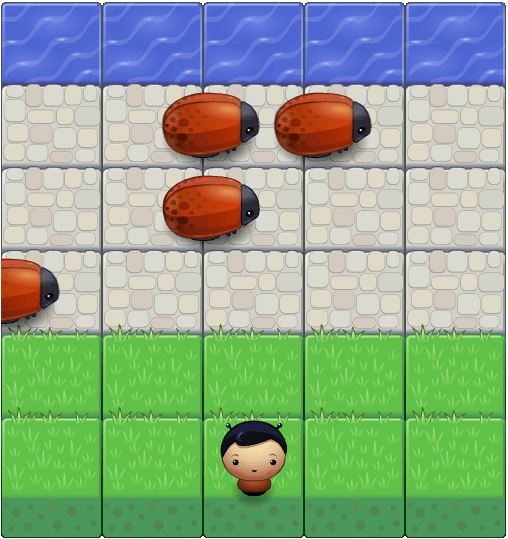
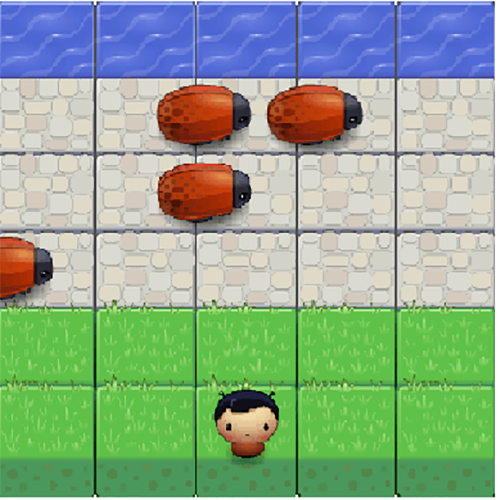
Include Spotify Project Descriptions

diff --git a/index.html b/index.html
@@ -1,1 +1,1 @@
-<!DOCTYPE html><html lang=en><head><meta charset=utf-8><meta http-equiv=X-UA-Compatible content="IE=edge"><meta http-equiv=Cache-control content=public><meta name=viewport content="width=device-width,initial-scale=1"><title>Vincent Tsang</title><link href="http://fonts.googleapis.com/css?family=Roboto:400,400italic,500,300,700,100" rel=stylesheet type=text/css><link href="http://weloveiconfonts.com/api/?family=brandico" rel=stylesheet type=text/css><link rel=stylesheet href=css/bootstrap.min.css><link rel=stylesheet href=css/styles.min.css><style>body{font-family:Roboto,sans-serif;color:#000;position:relative}[class*=brandico-]:before{font-family:brandico,sans-serif}</style><script type=text/javascript>$(document).ready(function(){$("body").scrollspy({target:"#navbar-example"}),$(".resume-header").toUpperCase});</script><body data-spy=scroll data-target=#navbar-example><nav class="navbar navbar-default navbar-fixed-top"><div class=container><div class=navbar-header><button class=navbar-toggle data-toggle=collapse data-target=.navHeaderCollapse><span class=icon-bar></span> <span class=icon-bar></span> <span class=icon-bar></span></button> <a class=navbar-brand href=#><img style=max-height:45px;max-width:50px;margin-top:-25% src=images/logo.png></a></div><div id=navbar-example class="collapse navbar-collapse navHeaderCollapse"><ul class="nav navbar-nav navbar-right"><li><a href=#about class=color-me>About Me</a></li><li><a href=#resume>Resume</a></li><li><a href=#projects>Projects</a></li><li><a href=#contact>Contact Me</a></li></ul></div></div></nav><div class=jumbotron><div class=container><div class="row centered"><div class=col-md-12><div class="text-center jumbotron-text"><h1>Vincent Tsang</h1><hr width=60%></div></div></div><div id=jumbo class="row flex fade-text"><div class=col-md-4><h2 class="fading-text fade-learn text-animated-one">Learn</h2></div><div class=col-md-4><h2 class="fading-text fade-explore text-animated-three">Explore</h2></div><div class=col-md-4><h2 class="fading-text fade-discover text-animated-two">Discover</h2></div></div></div><div class="blue-btn text-center"><a class="btn btn-default glyphicon glyphicon-menu-down" href=#about role=button></a></div></div><section id=about><div class=container><div class="row section-indent"><div class="col-md-12 text-center"><h1 class=section-header>About <span class=text-muted>Me</span></h1></div></div><div id=about-info class="row section-md-indent"><div class="col-md-6 text-center"><div><img src=images/profile.png class=img-circle alt="Profile Image" width=300 height=300></div></div><div class="col-md-5 text-md intro"><p>Hi I'm Vincent, a sophomore at <span class=text-muted>Tufts University</span>. I'm currently majoring in <span class=text-muted>Computer Science</span>, and I have a strong ambition to make an impact on the web and my communities. I discovered my passion for programming in high school and since then, I've taught myself new languages and frameworks using online resources such as Udacity, Udemy, YouTube, and online blogs. I'm currently learning <span class=text-muted>Web Development</span> and <span class=text-muted>Android App Development</span>, and I hope to bring my ideas to life in the near future. When I'm not busy, I enjoy playing around, jumping into outdoor adventures and experimenting with photography.</p></div></div><div id=logo-list class="row flex"><div class=col-md-1><a href=https://www.linkedin.com/pub/vincent-tsang/9a/95b/aa3><h1 class=brandico-linkedin-rect></h1></a></div><div class=col-md-1><a href=https://github.com/vtsang01><h1 class=brandico-github></h1></a></div><div class=col-md-1><a href="https://instagram.com/vtsang01/"><h1 class=brandico-instagram-filled></h1></a></div></div></div></section><div class=section-indent></div><section id=resume class=background><div class=container><div class="row section-indent"><div class="col-md-12 text-center"><h1 class="text-thin text-super">Resume</h1></div></div><div class="row flex section-md-indent"><div class=col-md-1></div><div class="col-md-2 text-left"><p class="resume-header text-bold">Education</p></div><div class="col-md-5 text-left resume-body"><p class=color-me><b>B.S. Computer Science</b></p><p><i>Tufts University</i></p></div><div class="col-md-4 resume-body text-left"><p>2014 - Present</p><p><i>Medford, MA</i></p></div></div><div class="row flex section-md-indent"><div class=col-md-1></div><div class="col-md-2 text-left"><p class="resume-header text-bold">Courses</p></div><div class="col-md-5 text-left resume-body"><p class=color-me><b>Tufts University</b></p><p>Comp 11: Intro to Computer Science</p><p>Comp 15: Data Structures</p></div></div><div class="row flex section-md-indent"><div class=col-md-1></div><div class="col-md-2 text-left"><p class="resume-header text-bold">Online Courses</p></div><div class="col-md-5 text-left resume-body"><p class=color-me><b>Udacity: Front-End Web Developer</b></p><p>Intro to HTML and CSS</p><p>Responsive Web Fundamentals</p><p>Javascript Basics</p><p>Intro to JQuery</p><p>Responsive Web Design Fundamentals</p></div></div><div class="row section-sm-indent"><div class=col-md-1></div><div class="col-md-2 text-left"></div><div class="col-md-5 text-left resume-body"><p class=color-me><b>Udacity: Full-Stack Web Developer</b></p><p>Programming Foundations with Python</p><p>Intro to Relational Databases</p></div></div><div class="row section-md-indent"><div class=col-md-1></div><div class="col-md-2 text-left"><p class="resume-header text-bold">Work Experience</p></div><div class="col-md-5 text-left resume-body"><p class=color-me><b>Air Force Research Laboratory: Summer at the Edge 2014</b></p><p><i>Research Intern</i></p><p>Vincent demonstrated remote control of the NAO Humanoid Robot using a smartphone interface that controlled NAO’s arm and head joints, leg movements, and viewed live video stream from NAO’s cameras. He also developed natural human interface that controlled NAO's upper body motions with human gestures using the XBox Kinect Sensor.</p></div><div class="col-md-4 resume-body text-left"><p>June 2014 - August 2014</p></div></div><div class="row section-md-indent"><div class=col-md-1></div><div class="col-md-2 text-left"></div><div class="col-md-5 text-left resume-body"><p class=color-me><b>Air Force Research Laboratory: Summer at the Edge 2013</b></p><p><i>Research Intern</i></p><p>As a research intern leading his own project, Vincent created a tri-wheeled robot powered by a Raspberry Pi. He designed a web application that controlled the robot's motors, USB microphone, and camera, which streamed live video to another computer on the same network.</p></div><div class="col-md-4 resume-body text-left"><p>June 2013 - August 2013</p></div></div><div class="row section-md-indent"><div class=col-md-1></div><div class="col-md-2 text-left"></div><div class="col-md-5 text-left resume-body"><p class=color-me><b>Air Force Research Laboratory: Summer at the Edge 2012</b></p><p><i>Research Intern</i></p><p>Vincent worked with medical research team SMARTcare to innovate an OpemSim medical learning environment and used the animated virtual reality tours depicting the effects of hemophilia in blood vessels and on knee wounds.</p></div><div class="col-md-4 resume-body text-left"><p>June 2012 - August 2012</p></div></div></div><div class=section-indent></div></section><section><div class=container><div class="row section-indent" id=projects><div class="col-md-12 text-center"><h1 class="text-thin text-super">Projects</h1></div></div><div class="row text-center"><div class=col-md-4><img class=img-responsive src=images/sky.png alt="Personal Portfolio" data-toggle=modal data-target=#personalPortfolio width=500 height=350><h3 class=text-uppercase>Sky Forum</h3><p>Simple Reddit-Styled Website made with Meteor</p></div><div class=col-md-4><img class=img-responsive src=images/frogger.png alt="Frogger Game" data-toggle=modal data-target=#frogger width=500 height=350><h3 class=text-uppercase>Simple Frogger</h3><p>Frogger Game created with JavaScript and HTML5 Canvas</p></div><div class=col-md-4><img class=img-responsive src=images/code.png alt="Filler Image" data-toggle=modal data-target=#proj3 width=500 height=500><h3 class=text-uppercase>TBA</h3><p>Project To Be Added...</p></div></div></div><div class=section-indent></div></section><section id=background><div class=container><div class="row section-indent" id=contact><div class="col-md-12 text-center"><h4><i>Send a Friendly</i></h4><h1 class="text-thin text-muted text-super"><b>Hello</b></h1></div></div><div class="row mt"><div class=col-lg-6><h4>Email</h4><hr><p class=text-md>Please feel free to contact me directly at: <a class=color-me href=mailto:Vincent.Tsang@tufts.edu>Vincent.Tsang@tufts.edu</a></p></div><div class="col-lg-5 col-lg-offset-1"><h4>The Web</h4><hr><p class=text-md><span class=brandico-linkedin-rect></span> LinkedIn: <a href=https://www.linkedin.com/pub/vincent-tsang/9a/95b/aa3>Vincent Tsang</a><br><span class=brandico-github></span> Github: <a href=https://github.com/vtsang01>vtsang01</a><br><span class=brandico-instagram-filled></span> Instagram: <a href="https://instagram.com/vtsang01/">vtsang01</a></p><br><h4>Old School</h4><hr><p class=text-md>Phone: <a href=tel:18134691499>1-626-560-2777</a><br></p></div></div></div><div class=section-indent></div></section><div class=subfooter><div class=container><div class=row><div class=col-md-12><ul class="list-inline text-center scrollspy smooth-scroll"><li><a href=#>Home</a></li><li class=footer-menu-divider>&sdot;</li><li><a href=#about>About</a></li><li class=footer-menu-divider>&sdot;</li><li><a href=#resume>Resume</a></li><li class=footer-menu-divider>&sdot;</li><li><a href=#projects>Projects</a></li><li class=footer-menu-divider>&sdot;</li><li><a href=#contact>Contact Me</a></li></ul><p class="white text-center">Copyright © 2015 Vincent Tsang All Rights Reserved</p></div></div></div></div><div class="modal fade" id=personalPortfolio tabindex=-1 role=dialog aria-labelledby=exampleModalLabel><div class=modal-dialog><div class=modal-content><div class=modal-header><h4 class=modal-title id=myModalLabel>Personal Portfolio</h4></div><div class=modal-body><img class=img-responsive src=images/code.png> This current website is the first front-end project project I created from scratch after learning from Udacity's Frontend Nanodegree Program.</div><div class=modal-footer><button type=button class="btn btn-default" data-dismiss=modal>Close</button></div></div></div></div><div class="modal fade" id=frogger tabindex=-1 role=dialog aria-labelledby=exampleModalLabel><div class=modal-dialog><div class=modal-content><div class=modal-header><h4 class=modal-title id=myModalLabel>Frogger HTML5 / JavaScript Game</h4></div><div class=modal-body><img class=img-responsive src=images/frogger.png> This Frogger Game was built using object oriented javascript and HTML5 canvas concepts from Udacity's Object-Oriented Javascript and HTML5 Canvas courses.</div><div class=modal-footer><button type=button class="btn btn-default" data-dismiss=modal>Close</button></div></div></div></div><div class="modal fade" id=proj3 tabindex=-1 role=dialog aria-labelledby=exampleModalLabel><div class=modal-dialog><div class=modal-content><div class=modal-header><h4 class=modal-title id=myModalLabel>To be Added</h4></div><div class=modal-body><img class=img-responsive src=images/code.png></div><div class=modal-footer><button type=button class="btn btn-default" data-dismiss=modal>Close</button></div></div></div></div><script src=https://ajax.googleapis.com/ajax/libs/jquery/2.1.3/jquery.min.js async></script><script src=js/bootstrap.min.js async></script>
+<!DOCTYPE html><html lang=en><head><meta charset=utf-8><meta http-equiv=X-UA-Compatible content="IE=edge"><meta http-equiv=Cache-control content=public><meta name=viewport content="width=device-width,initial-scale=1"><title>Vincent Tsang</title><link href="http://fonts.googleapis.com/css?family=Roboto:400,400italic,500,300,700,100" rel=stylesheet type=text/css><link href="http://weloveiconfonts.com/api/?family=brandico" rel=stylesheet type=text/css><link rel=stylesheet href=css/bootstrap.min.css><link rel=stylesheet href=css/styles.min.css><style>body{font-family:Roboto,sans-serif;color:#000;position:relative}[class*=brandico-]:before{font-family:brandico,sans-serif}</style><script type=text/javascript>$(document).ready(function(){$("body").scrollspy({target:"#navbar-example"}),$(".resume-header").toUpperCase});</script><body data-spy=scroll data-target=#navbar-example><nav class="navbar navbar-default navbar-fixed-top"><div class=container><div class=navbar-header><button class=navbar-toggle data-toggle=collapse data-target=.navHeaderCollapse><span class=icon-bar></span> <span class=icon-bar></span> <span class=icon-bar></span></button> <a class=navbar-brand href=#><img style=max-height:45px;max-width:50px;margin-top:-25% src=images/logo.png></a></div><div id=navbar-example class="collapse navbar-collapse navHeaderCollapse"><ul class="nav navbar-nav navbar-right"><li><a href=#about class=color-me>About Me</a></li><li><a href=#resume>Resume</a></li><li><a href=#projects>Projects</a></li><li><a href=#contact>Contact Me</a></li></ul></div></div></nav><div class=jumbotron><div class=container><div class="row centered"><div class=col-md-12><div class="text-center jumbotron-text"><h1>Vincent Tsang</h1><hr width=60%></div></div></div><div id=jumbo class="row flex fade-text"><div class=col-md-4><h2 class="fading-text fade-learn text-animated-one">Learn</h2></div><div class=col-md-4><h2 class="fading-text fade-explore text-animated-three">Explore</h2></div><div class=col-md-4><h2 class="fading-text fade-discover text-animated-two">Discover</h2></div></div></div><div class="blue-btn text-center"><a class="btn btn-default glyphicon glyphicon-menu-down" href=#about role=button></a></div></div><section id=about><div class=container><div class="row section-indent"><div class="col-md-12 text-center"><h1 class=section-header>About <span class=text-muted>Me</span></h1></div></div><div id=about-info class="row section-md-indent"><div class="col-md-6 text-center"><div><img src=images/profile.png class=img-circle alt="Profile Image" width=300 height=300></div></div><div class="col-md-5 text-md intro"><p>Hi I'm Vincent, a sophomore at <span class=text-muted>Tufts University</span>. I'm currently majoring in <span class=text-muted>Computer Science</span>, and I have a strong ambition to make an impact on the web and my communities. I discovered my passion for programming in high school and since then, I've taught myself new languages and frameworks using online resources such as Udacity, Udemy, YouTube, and online blogs. I'm currently learning <span class=text-muted>Web Development</span> and <span class=text-muted>Android App Development</span>, and I hope to bring my ideas to life in the near future. When I'm not busy, I enjoy playing around, jumping into outdoor adventures and experimenting with photography.</p></div></div><div id=logo-list class="row flex"><div class=col-md-1><a href=https://www.linkedin.com/pub/vincent-tsang/9a/95b/aa3><h1 class=brandico-linkedin-rect></h1></a></div><div class=col-md-1><a href=https://github.com/vtsang01><h1 class=brandico-github></h1></a></div><div class=col-md-1><a href="https://instagram.com/vtsang01/"><h1 class=brandico-instagram-filled></h1></a></div></div></div></section><div class=section-indent></div><section id=resume class=background><div class=container><div class="row section-indent"><div class="col-md-12 text-center"><h1 class="text-thin text-super">Resume</h1></div></div><div class="row flex section-md-indent"><div class=col-md-1></div><div class="col-md-2 text-left"><p class="resume-header text-bold">Education</p></div><div class="col-md-5 text-left resume-body"><p class=color-me><b>B.S. Computer Science</b></p><p><i>Tufts University</i></p></div><div class="col-md-4 resume-body text-left"><p>2014 - Present</p><p><i>Medford, MA</i></p></div></div><div class="row flex section-md-indent"><div class=col-md-1></div><div class="col-md-2 text-left"><p class="resume-header text-bold">Courses</p></div><div class="col-md-5 text-left resume-body"><p class=color-me><b>Tufts University</b></p><p>Comp 11: Intro to Computer Science</p><p>Comp 15: Data Structures</p></div></div><div class="row flex section-md-indent"><div class=col-md-1></div><div class="col-md-2 text-left"><p class="resume-header text-bold">Online Courses</p></div><div class="col-md-5 text-left resume-body"><p class=color-me><b>Udacity: Front-End Web Developer</b></p><p>Intro to HTML and CSS</p><p>Responsive Web Fundamentals</p><p>Javascript Basics</p><p>Intro to JQuery</p><p>Responsive Web Design Fundamentals</p></div></div><div class="row section-sm-indent"><div class=col-md-1></div><div class="col-md-2 text-left"></div><div class="col-md-5 text-left resume-body"><p class=color-me><b>Udacity: Full-Stack Web Developer</b></p><p>Programming Foundations with Python</p><p>Intro to Relational Databases</p></div></div><div class="row section-md-indent"><div class=col-md-1></div><div class="col-md-2 text-left"><p class="resume-header text-bold">Work Experience</p></div><div class="col-md-5 text-left resume-body"><p class=color-me><b>Air Force Research Laboratory: Summer at the Edge 2014</b></p><p><i>Research Intern</i></p><p>Vincent demonstrated remote control of the NAO Humanoid Robot using a smartphone interface that controlled NAO’s arm and head joints, leg movements, and viewed live video stream from NAO’s cameras. He also developed natural human interface that controlled NAO's upper body motions with human gestures using the XBox Kinect Sensor.</p></div><div class="col-md-4 resume-body text-left"><p>June 2014 - August 2014</p></div></div><div class="row section-md-indent"><div class=col-md-1></div><div class="col-md-2 text-left"></div><div class="col-md-5 text-left resume-body"><p class=color-me><b>Air Force Research Laboratory: Summer at the Edge 2013</b></p><p><i>Research Intern</i></p><p>As a research intern leading his own project, Vincent created a tri-wheeled robot powered by a Raspberry Pi. He designed a web application that controlled the robot's motors, USB microphone, and camera, which streamed live video to another computer on the same network.</p></div><div class="col-md-4 resume-body text-left"><p>June 2013 - August 2013</p></div></div><div class="row section-md-indent"><div class=col-md-1></div><div class="col-md-2 text-left"></div><div class="col-md-5 text-left resume-body"><p class=color-me><b>Air Force Research Laboratory: Summer at the Edge 2012</b></p><p><i>Research Intern</i></p><p>Vincent worked with medical research team SMARTcare to innovate an OpemSim medical learning environment and used the animated virtual reality tours depicting the effects of hemophilia in blood vessels and on knee wounds.</p></div><div class="col-md-4 resume-body text-left"><p>June 2012 - August 2012</p></div></div></div><div class=section-indent></div></section><section><div class=container><div class="row section-indent" id=projects><div class="col-md-12 text-center"><h1 class="text-thin text-super">Projects</h1></div></div><div class="row text-center"><div class=col-md-4><img class=img-responsive src=images/sky.png alt="Sky Forum Website" data-toggle=modal data-target=#personalPortfolio width=500 height=500><h3 class=text-uppercase>Sky Forum</h3><p>Simple Reddit-Styled Website made with Meteor</p></div><div class=col-md-4><img class="img-responsive img" src=images/frogger.png alt="Frogger Game" data-toggle=modal data-target=#frogger><h3 class=text-uppercase>Simple Frogger</h3><p>Frogger Game created with JavaScript and HTML5 Canvas</p></div><div class=col-md-4><img class="img-responsive img" src=images/spotify.png alt="Spotify Streamer" data-toggle=modal data-target=#proj3 max-width=500 max-height=500><h3 class=text-uppercase>Spotify Streamer</h3><p>Android Application: Searches Artists and Displays Top Songs</p></div></div></div><div class=section-indent></div></section><section id=background><div class=container><div class="row section-indent" id=contact><div class="col-md-12 text-center"><h4><i>Send a Friendly</i></h4><h1 class="text-thin text-muted text-super"><b>Hello</b></h1></div></div><div class="row mt"><div class=col-lg-6><h4>Email</h4><hr><p class=text-md>Please feel free to contact me directly at: <a class=color-me href=mailto:Vincent.Tsang@tufts.edu>Vincent.Tsang@tufts.edu</a></p></div><div class="col-lg-5 col-lg-offset-1"><h4>The Web</h4><hr><p class=text-md><span class=brandico-linkedin-rect></span> LinkedIn: <a href=https://www.linkedin.com/pub/vincent-tsang/9a/95b/aa3>Vincent Tsang</a><br><span class=brandico-github></span> Github: <a href=https://github.com/vtsang01>vtsang01</a><br><span class=brandico-instagram-filled></span> Instagram: <a href="https://instagram.com/vtsang01/">vtsang01</a></p><br><h4>Old School</h4><hr><p class=text-md>Phone: <a href=tel:18134691499>1-626-560-2777</a><br></p></div></div></div><div class=section-indent></div></section><div class=subfooter><div class=container><div class=row><div class=col-md-12><ul class="list-inline text-center scrollspy smooth-scroll"><li><a href=#>Home</a></li><li class=footer-menu-divider>&sdot;</li><li><a href=#about>About</a></li><li class=footer-menu-divider>&sdot;</li><li><a href=#resume>Resume</a></li><li class=footer-menu-divider>&sdot;</li><li><a href=#projects>Projects</a></li><li class=footer-menu-divider>&sdot;</li><li><a href=#contact>Contact Me</a></li></ul><p class="white text-center">Copyright © 2015 Vincent Tsang All Rights Reserved</p></div></div></div></div><div class="modal fade" id=personalPortfolio tabindex=-1 role=dialog aria-labelledby=exampleModalLabel><div class=modal-dialog><div class=modal-content><div class=modal-header><h4 class=modal-title id=myModalLabel>Sky Forum</h4></div><div class=modal-body><img class=img-responsive src=images/sky.png> I built this website using HTML, CSS, and Javascript with the reactive Meteor Web Framework. The website demonstrates web development features such as user authroization, reactivity, routing, information-hiding, and endless scrolling.</div><div class=modal-footer><button type=button class="btn btn-default" data-dismiss=modal>Close</button></div></div></div></div><div class="modal fade" id=frogger tabindex=-1 role=dialog aria-labelledby=exampleModalLabel><div class=modal-dialog><div class=modal-content><div class=modal-header><h4 class=modal-title id=myModalLabel>Frogger HTML5 / JavaScript Game</h4></div><div class=modal-body><img class=img-responsive src=images/frogger.png> This Frogger Game was built using object oriented javascript and HTML5 canvas concepts from Udacity's Object-Oriented Javascript and HTML5 Canvas courses.</div><div class=modal-footer><button type=button class="btn btn-default" data-dismiss=modal>Close</button></div></div></div></div><div class="modal fade" id=proj3 tabindex=-1 role=dialog aria-labelledby=exampleModalLabel><div class=modal-dialog><div class=modal-content><div class=modal-header><h4 class=modal-title id=myModalLabel>Spotify Streamer</h4></div><div class=modal-body><img class=img-responsive src=images/spotify.png> This application was built to practice accessing cloud information from third party API's and developing layouts. This application searches and displays artists as well as their top songs.</div><div class=modal-footer><button type=button class="btn btn-default" data-dismiss=modal>Close</button></div></div></div></div><script src=https://ajax.googleapis.com/ajax/libs/jquery/2.1.3/jquery.min.js async></script><script src=js/bootstrap.min.js async></script>

diff --git a/index.min.html b/index.min.html
@@ -253,26 +253,29 @@
 			
 				<div class = "row text-center">
 					<div class = "col-md-4">
-						<img class = "img-responsive" src="images/sky.png" alt ="Personal Portfolio" 
+						<img class = "img-responsive" src="images/sky.png" alt ="Sky Forum Website" 
 							  data-toggle="modal" data-target="#personalPortfolio"
-							   width="500" height="350">
+							   width="500" height="500">
 
 						<h3 class = "text-uppercase">Sky Forum</h3>
 						<p>Simple Reddit-Styled Website made with Meteor</p>
 					</div>
 					<div class = "col-md-4">
-						<img class = "img-responsive" src="images/frogger.png" alt ="Frogger Game"
-						      data-toggle="modal" data-target="#frogger"
-						      width="500" height="350">
+						 
+							<img class = "img-responsive img" src="images/frogger.png" alt ="Frogger Game"
+							      data-toggle="modal" data-target="#frogger">
+						
 						<h3 class = "text-uppercase">Simple Frogger</h3>
 						<p>Frogger Game created with JavaScript and HTML5 Canvas</p>
 					</div>
 					<div class = "col-md-4">
-						<img class = "img-responsive" src="images/code.png" alt ="Filler Image"
+						
+						<img class = "img-responsive img" src="images/spotify.png" alt ="Spotify Streamer"
 						      data-toggle="modal" data-target="#proj3"
-						      width="500" height="500">
-						<h3 class = "text-uppercase">TBA</h3>
-						<p>Project To Be Added...</p>
+						      max-width="500" max-height="500">
+
+						<h3 class = "text-uppercase">Spotify Streamer</h3>
+						<p>Android Application: Searches Artists and Displays Top Songs</p>
 					</div>
 				</div>
 			</div>
@@ -355,12 +358,14 @@
 		  <div class="modal-dialog">
 		    <div class="modal-content">
 		      <div class="modal-header">
-		        <h4 class="modal-title" id="myModalLabel">Personal Portfolio</h4>
+		        <h4 class="modal-title" id="myModalLabel">Sky Forum</h4>
 		      </div>
 		      <div class="modal-body">
-		        <img class="img-responsive" src="images/code.png">
-		        This current website is the first front-end project project I created from 
-		        scratch after learning from Udacity's Frontend Nanodegree Program.
+		        <img class="img-responsive" src="images/sky.png">
+		        I built this website using HTML, CSS, and Javascript with the 
+		        reactive Meteor Web Framework. The website demonstrates web
+		        development features such as user authroization, reactivity, 
+		        routing, information-hiding, and endless scrolling. 
 		      </div>
 		      <div class="modal-footer">
 		        <button type="button" class="btn btn-default" data-dismiss="modal">Close</button>
@@ -378,8 +383,7 @@
 		      </div>
 		      <div class="modal-body">
 		        <img class="img-responsive" src="images/frogger.png">
-		        This Frogger Game was built using object oriented javascript and HTML5 canvas concepts from Udacity's
-		        Object-Oriented Javascript and HTML5 Canvas courses. 
+		        This Frogger Game was built using object oriented javascript and HTML5 canvas concepts from Udacity's Object-Oriented Javascript and HTML5 Canvas courses. 
 		      </div>
 		      <div class="modal-footer">
 		        <button type="button" class="btn btn-default" data-dismiss="modal">Close</button>
@@ -393,11 +397,13 @@
 		  <div class="modal-dialog">
 		    <div class="modal-content">
 		      <div class="modal-header">
-		        <h4 class="modal-title" id="myModalLabel">To be Added</h4>
+		        <h4 class="modal-title" id="myModalLabel">Spotify Streamer</h4>
 		      </div>
 		      <div class="modal-body">
-		        <img class="img-responsive" src="images/code.png">
-		        <!-- TODO: Add Third Project-->
+		        <img class="img-responsive" src="images/spotify.png">
+		        This application was built to practice accessing cloud information from third party
+		        API's and developing layouts. This application searches and displays artists 
+		        as well as their top songs. 	
 		      </div>
 		      <div class="modal-footer">
 		        <button type="button" class="btn btn-default" data-dismiss="modal">Close</button>

diff --git a/css/styles.css b/css/styles.css
@@ -60,6 +60,13 @@
   background-color: black;
 }
 
+/* Images */
+.img {
+  width: 50%;
+  height: 50%;
+  overflow: hidden; 
+} 
+
 /* NavBar Styles */
 
 .navbar  {
